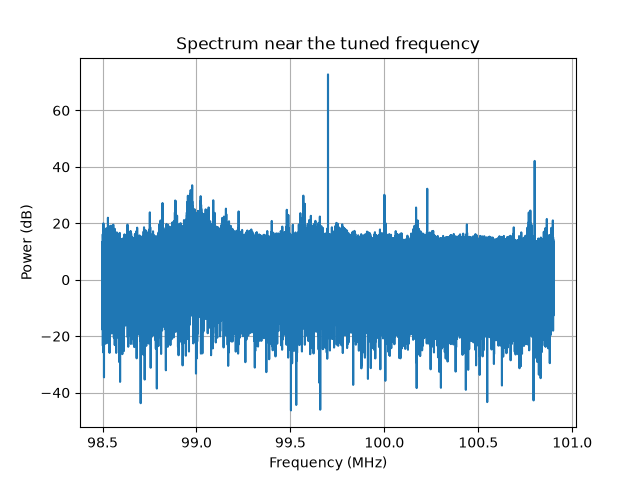
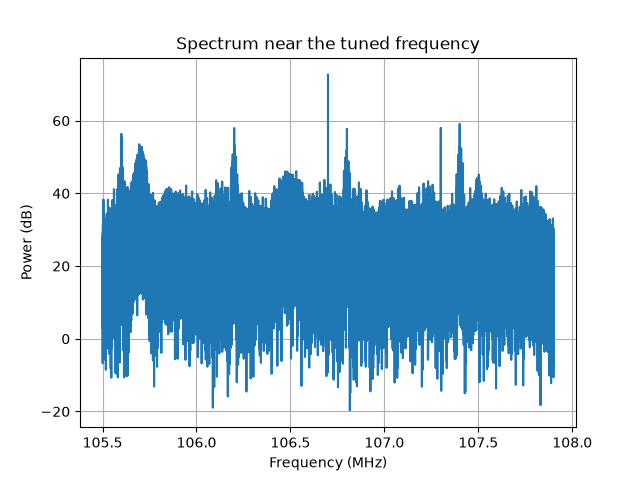
functioning file that can tune to radio

diff --git a/tuneHackRF.py b/tuneHackRF.py
@@ -11,9 +11,9 @@ import time
 import numpy as np
 import wave
 
-recording_time = 3          # seconds
-station_freq = 99500000       # Station: 99.5 MHz
-center_freq = 99700000        # Tune HackRF 200 kHz above station
+recording_time = 10          # seconds
+station_freq = 103700000    # Desired FM station frequency in Hz
+center_freq = station_freq + 200000        # Tune HackRF 200 kHz above station
 sample_rate = 2400000        # 2.4 MHz
 audio_rate = 48000           # WAV audio sample rate
 decimation = 50              # 2,400,000 / 48,000 = 50
@@ -147,7 +147,7 @@ def main():
     sdr.sdr.pyhackrf_set_baseband_filter_bandwidth(1750000)
     sdr.sdr.pyhackrf_set_amp_enable(False)
     sdr.sdr.pyhackrf_set_lna_gain(24)
-    sdr.sdr.pyhackrf_set_vga_gain(20)
+    sdr.sdr.pyhackrf_set_vga_gain(40)
 
     print("Station frequency:", station_freq)
     print("HackRF center frequency:", sdr.getFrequency())